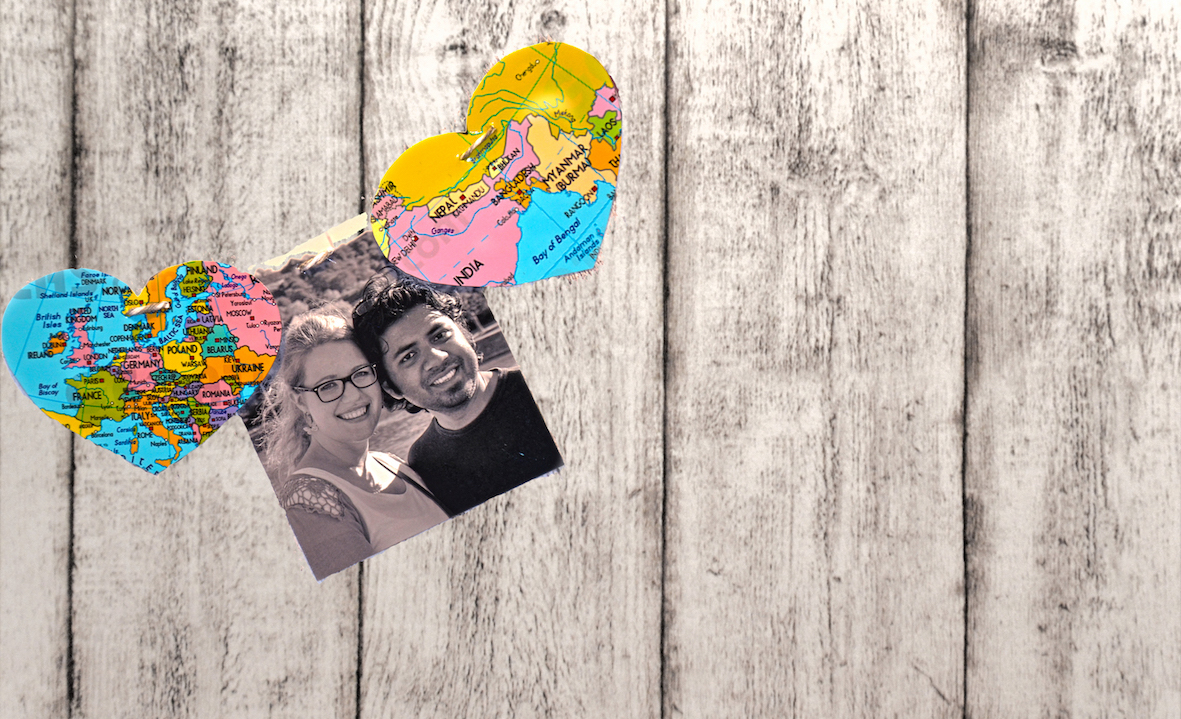
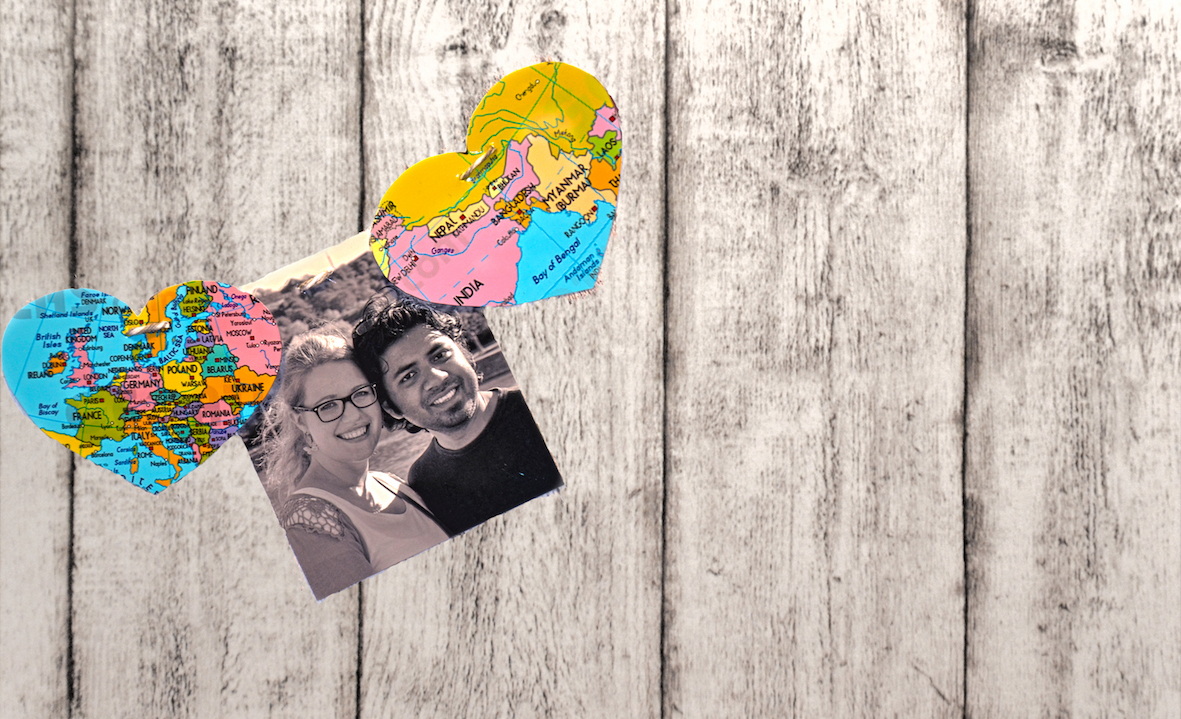
front page updated

Changed region(s): [[0.0, 0.0306, 0.5487, 0.8261]]

diff --git a/_includes/header.html b/_includes/header.html
@@ -1,5 +1,5 @@
 <header id="top" class="header">
   <div class="text-vertical-center">
-   <img src="img/qh.jpg" alt="Wedding quotes" style="width:500px; margin-left: 25em;">
+   <img src="img/qh.jpg" alt="Wedding quotes" style="width:500px; margin-left: 0em;">
   </div>
 </header>
